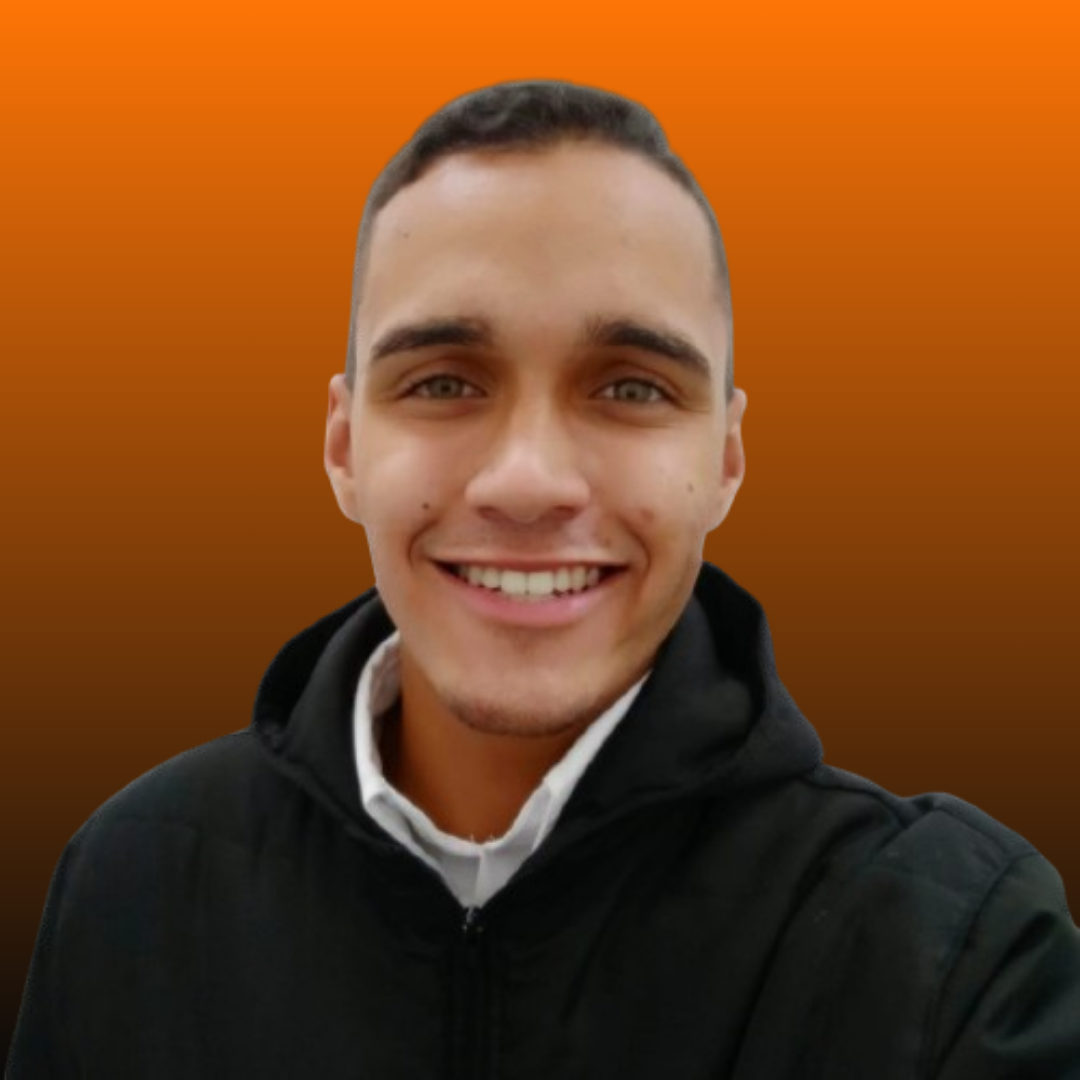
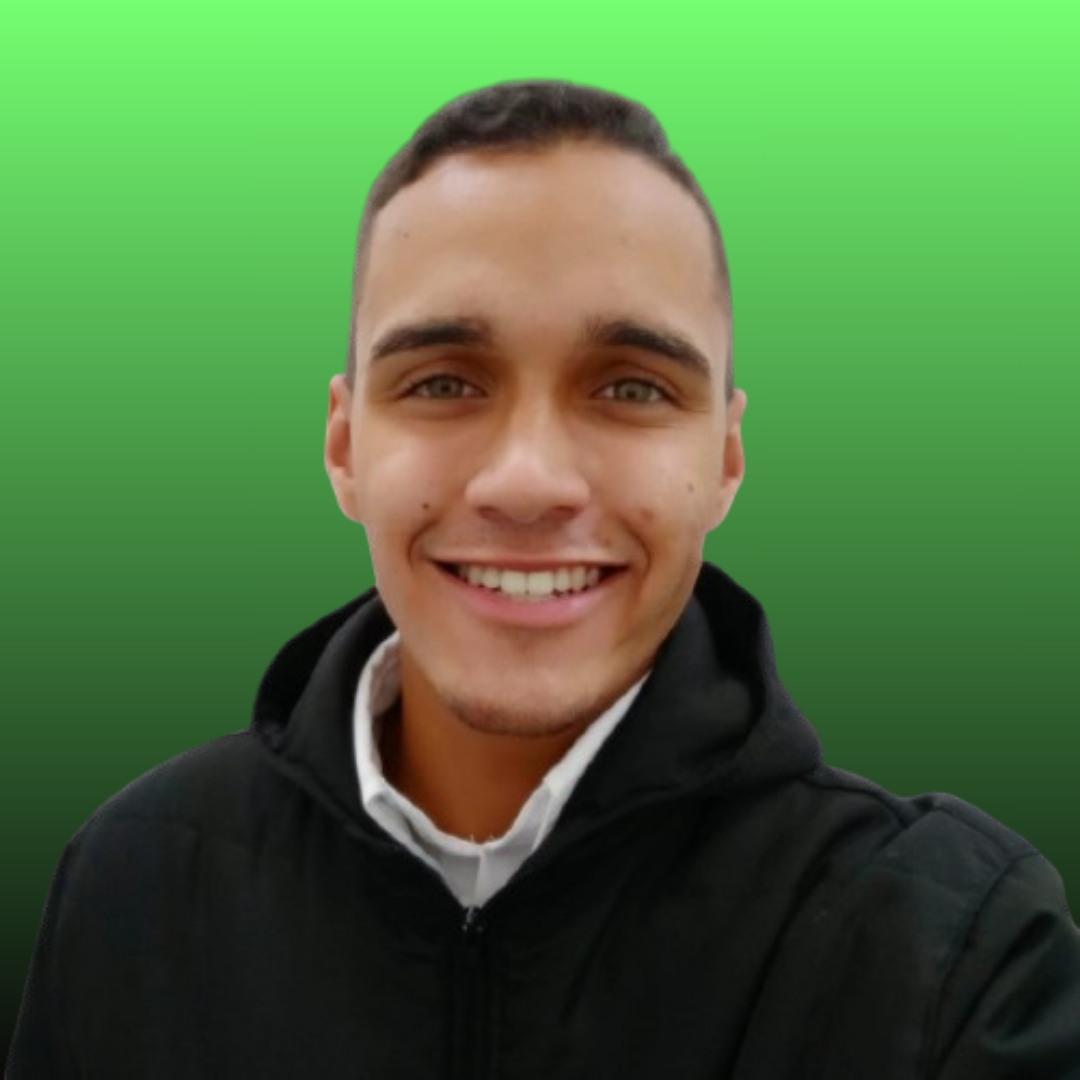
Sets on ID Visual

diff --git a/css/style.css b/css/style.css
@@ -1,7 +1,7 @@
 :root{
-    --main-color: #FE7506;
+    --main-color: #C1FF72;
     --sec-color: #ffffff;
-    --ter-color: #131313;
+    --ter-color: #000000;
 }
 
 body{
